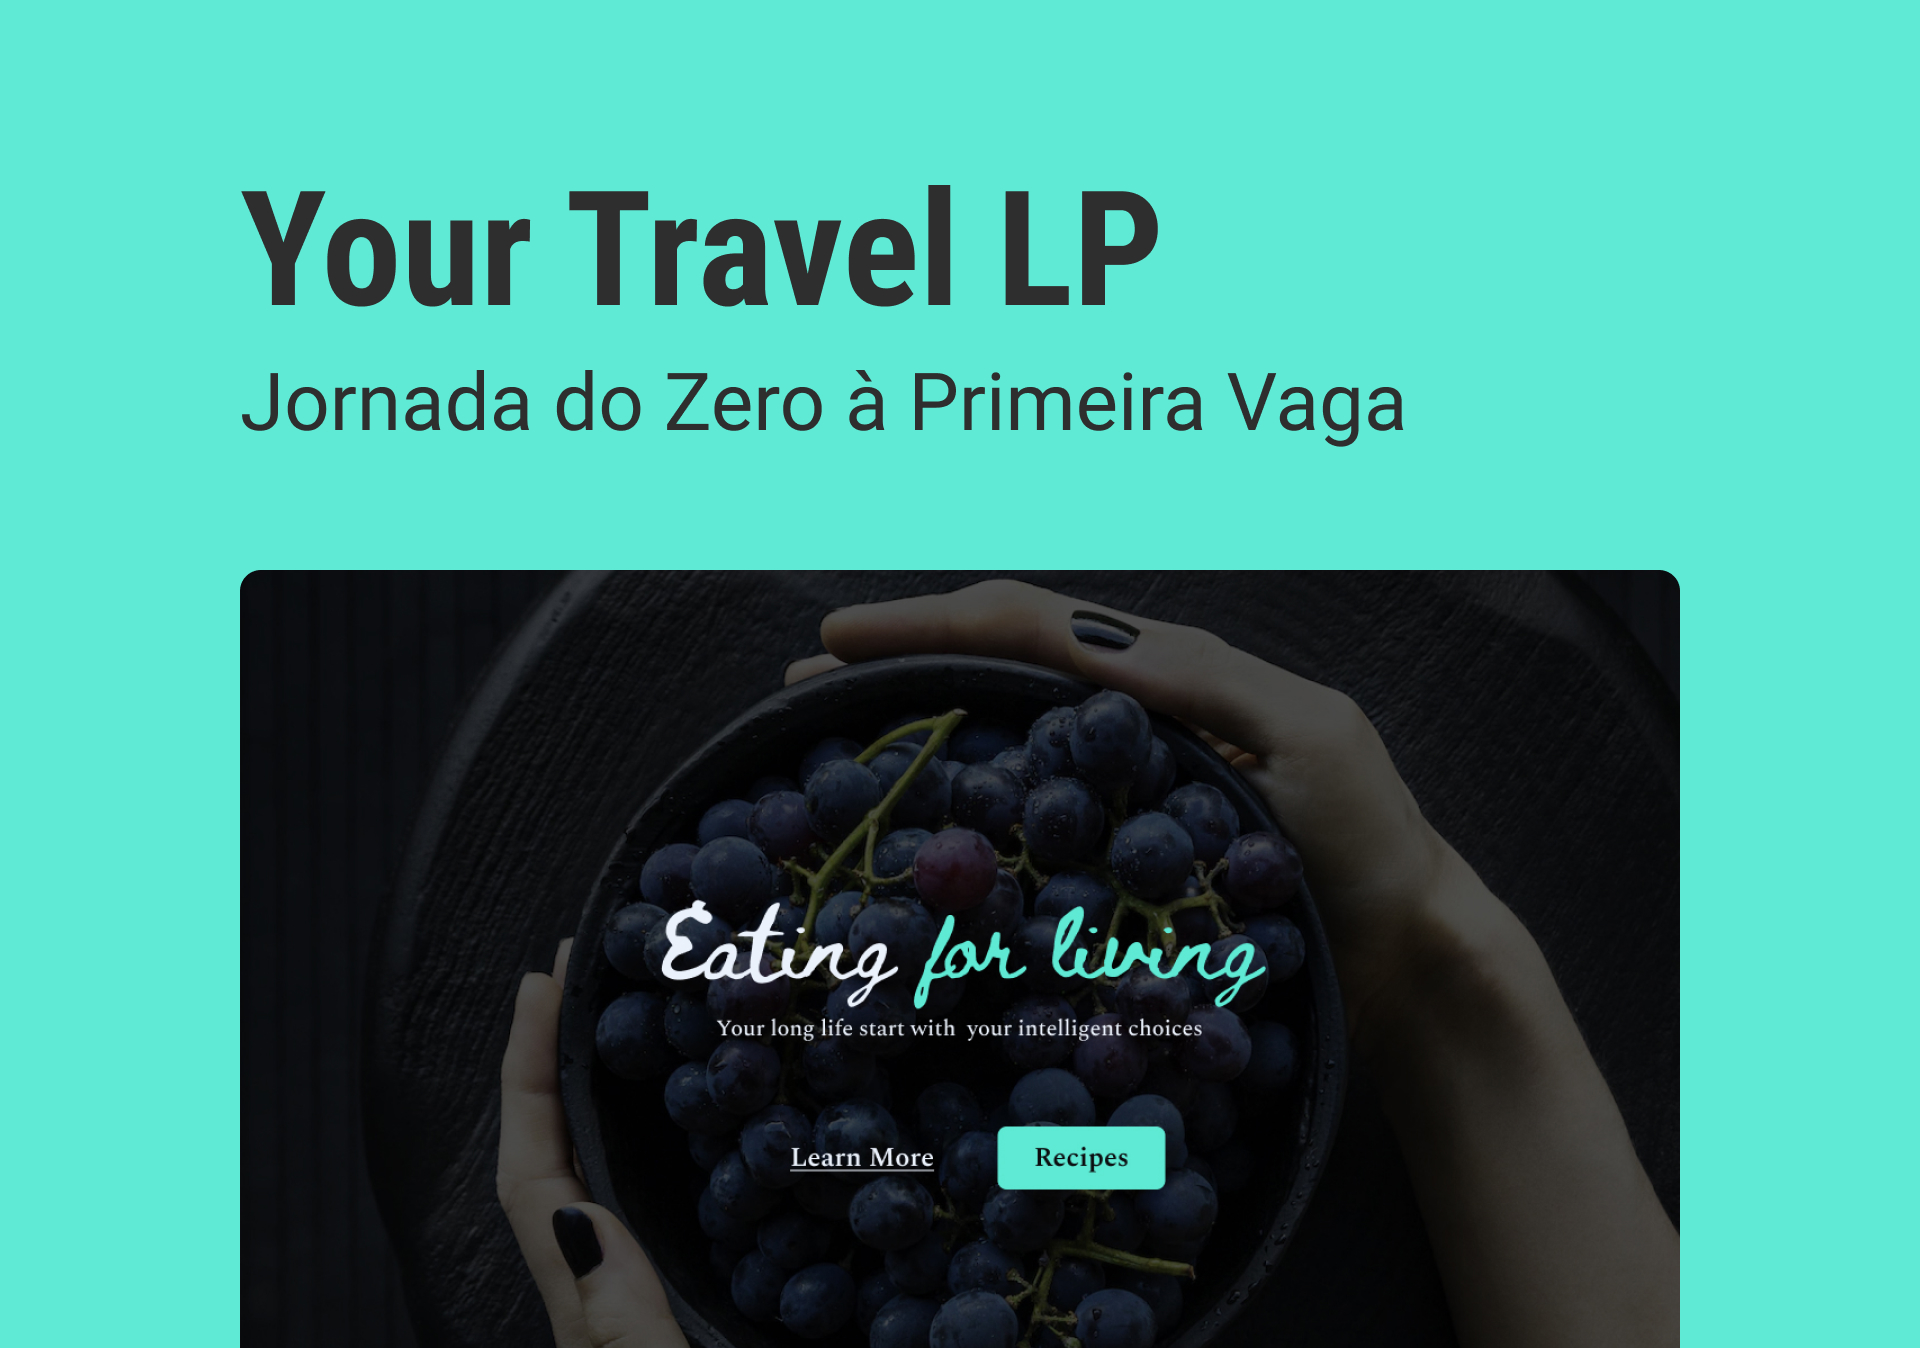
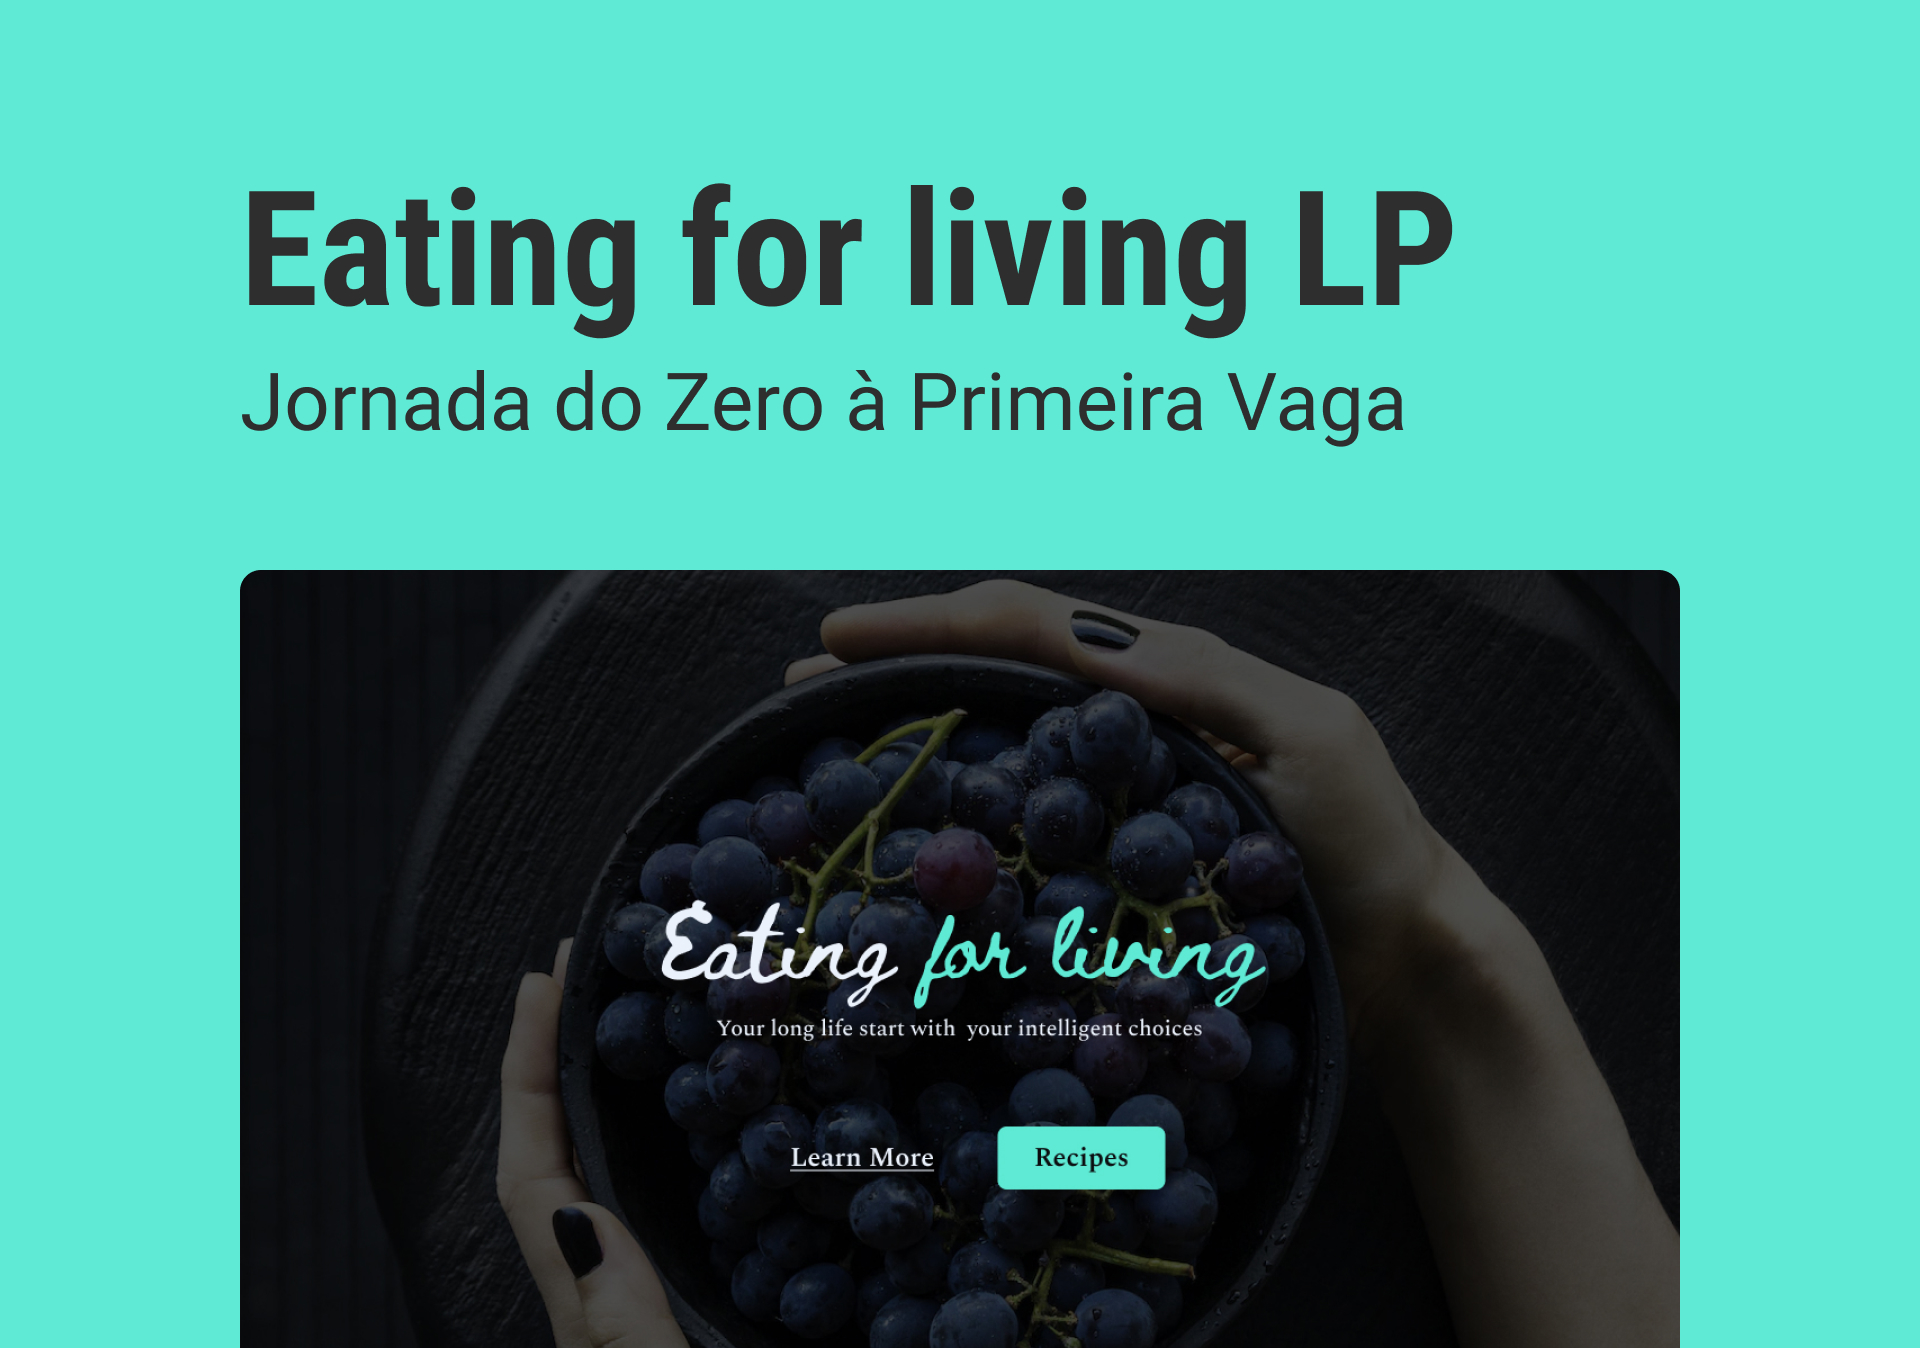
Projeto Final

Changed region(s): [[0.125, 0.1246, 0.7812, 0.2493]]

diff --git a/README.md b/README.md
@@ -5,7 +5,7 @@ Programa exclusivo promovido pela Rocketseat para ensino de tecnologias WEB. <br
 </p>
 
 <p align="center">
-  <a href="https://saraguanais.github.io/Desafio-Travel/" target="_blank" >Acesse o Projeto</a>&nbsp;&nbsp;&nbsp;&nbsp;&nbsp;&nbsp;
+  <a href="https://saraguanais.github.io/Eating-for-Living" target="_blank" >Acesse o Projeto</a>&nbsp;&nbsp;&nbsp;&nbsp;&nbsp;&nbsp;
 </p>
 
 <br>
